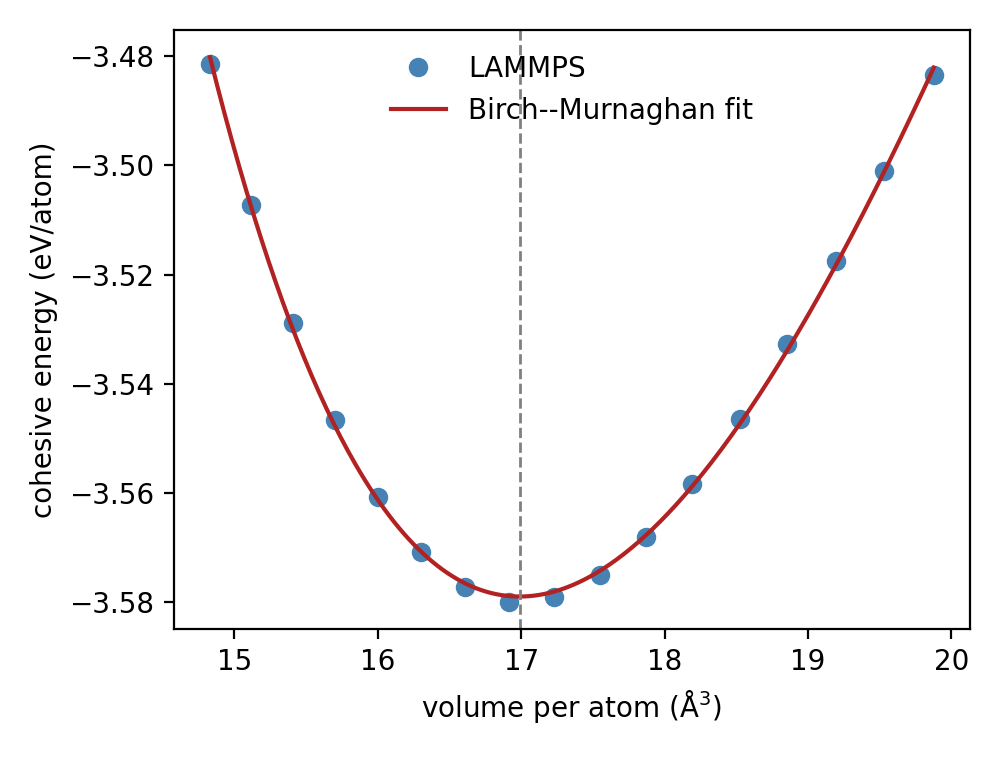
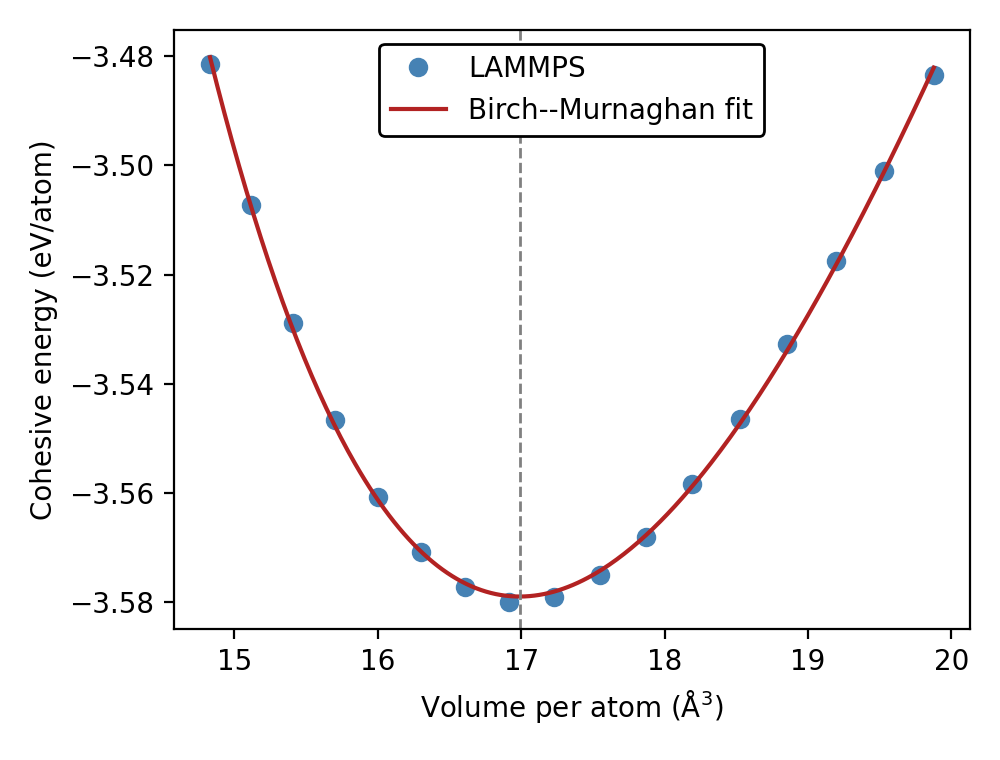
sync tutorials 1-3 with article

diff --git a/tutorial2/plot.py b/tutorial2/plot.py
@@ -45,8 +45,8 @@ plt.plot(V, E, "o", color="steelblue", label="LAMMPS")
 plt.plot(vfit, birch_murnaghan(vfit, *popt), "-", color="firebrick",
          label="Birch--Murnaghan fit")
 plt.axvline(V0, ls="--", color="gray", lw=1)
-plt.xlabel(r"volume per atom ($\mathrm{\AA}^3$)")
-plt.ylabel("cohesive energy (eV/atom)")
-plt.legend(frameon=False)
+plt.xlabel(r"Volume per atom ($\mathrm{\AA}^3$)")
+plt.ylabel("Cohesive energy (eV/atom)")
+plt.legend(frameon=True, framealpha=1.0, facecolor="white", edgecolor="black")
 plt.tight_layout()
 plt.savefig("ev-curve.png", dpi=200)
